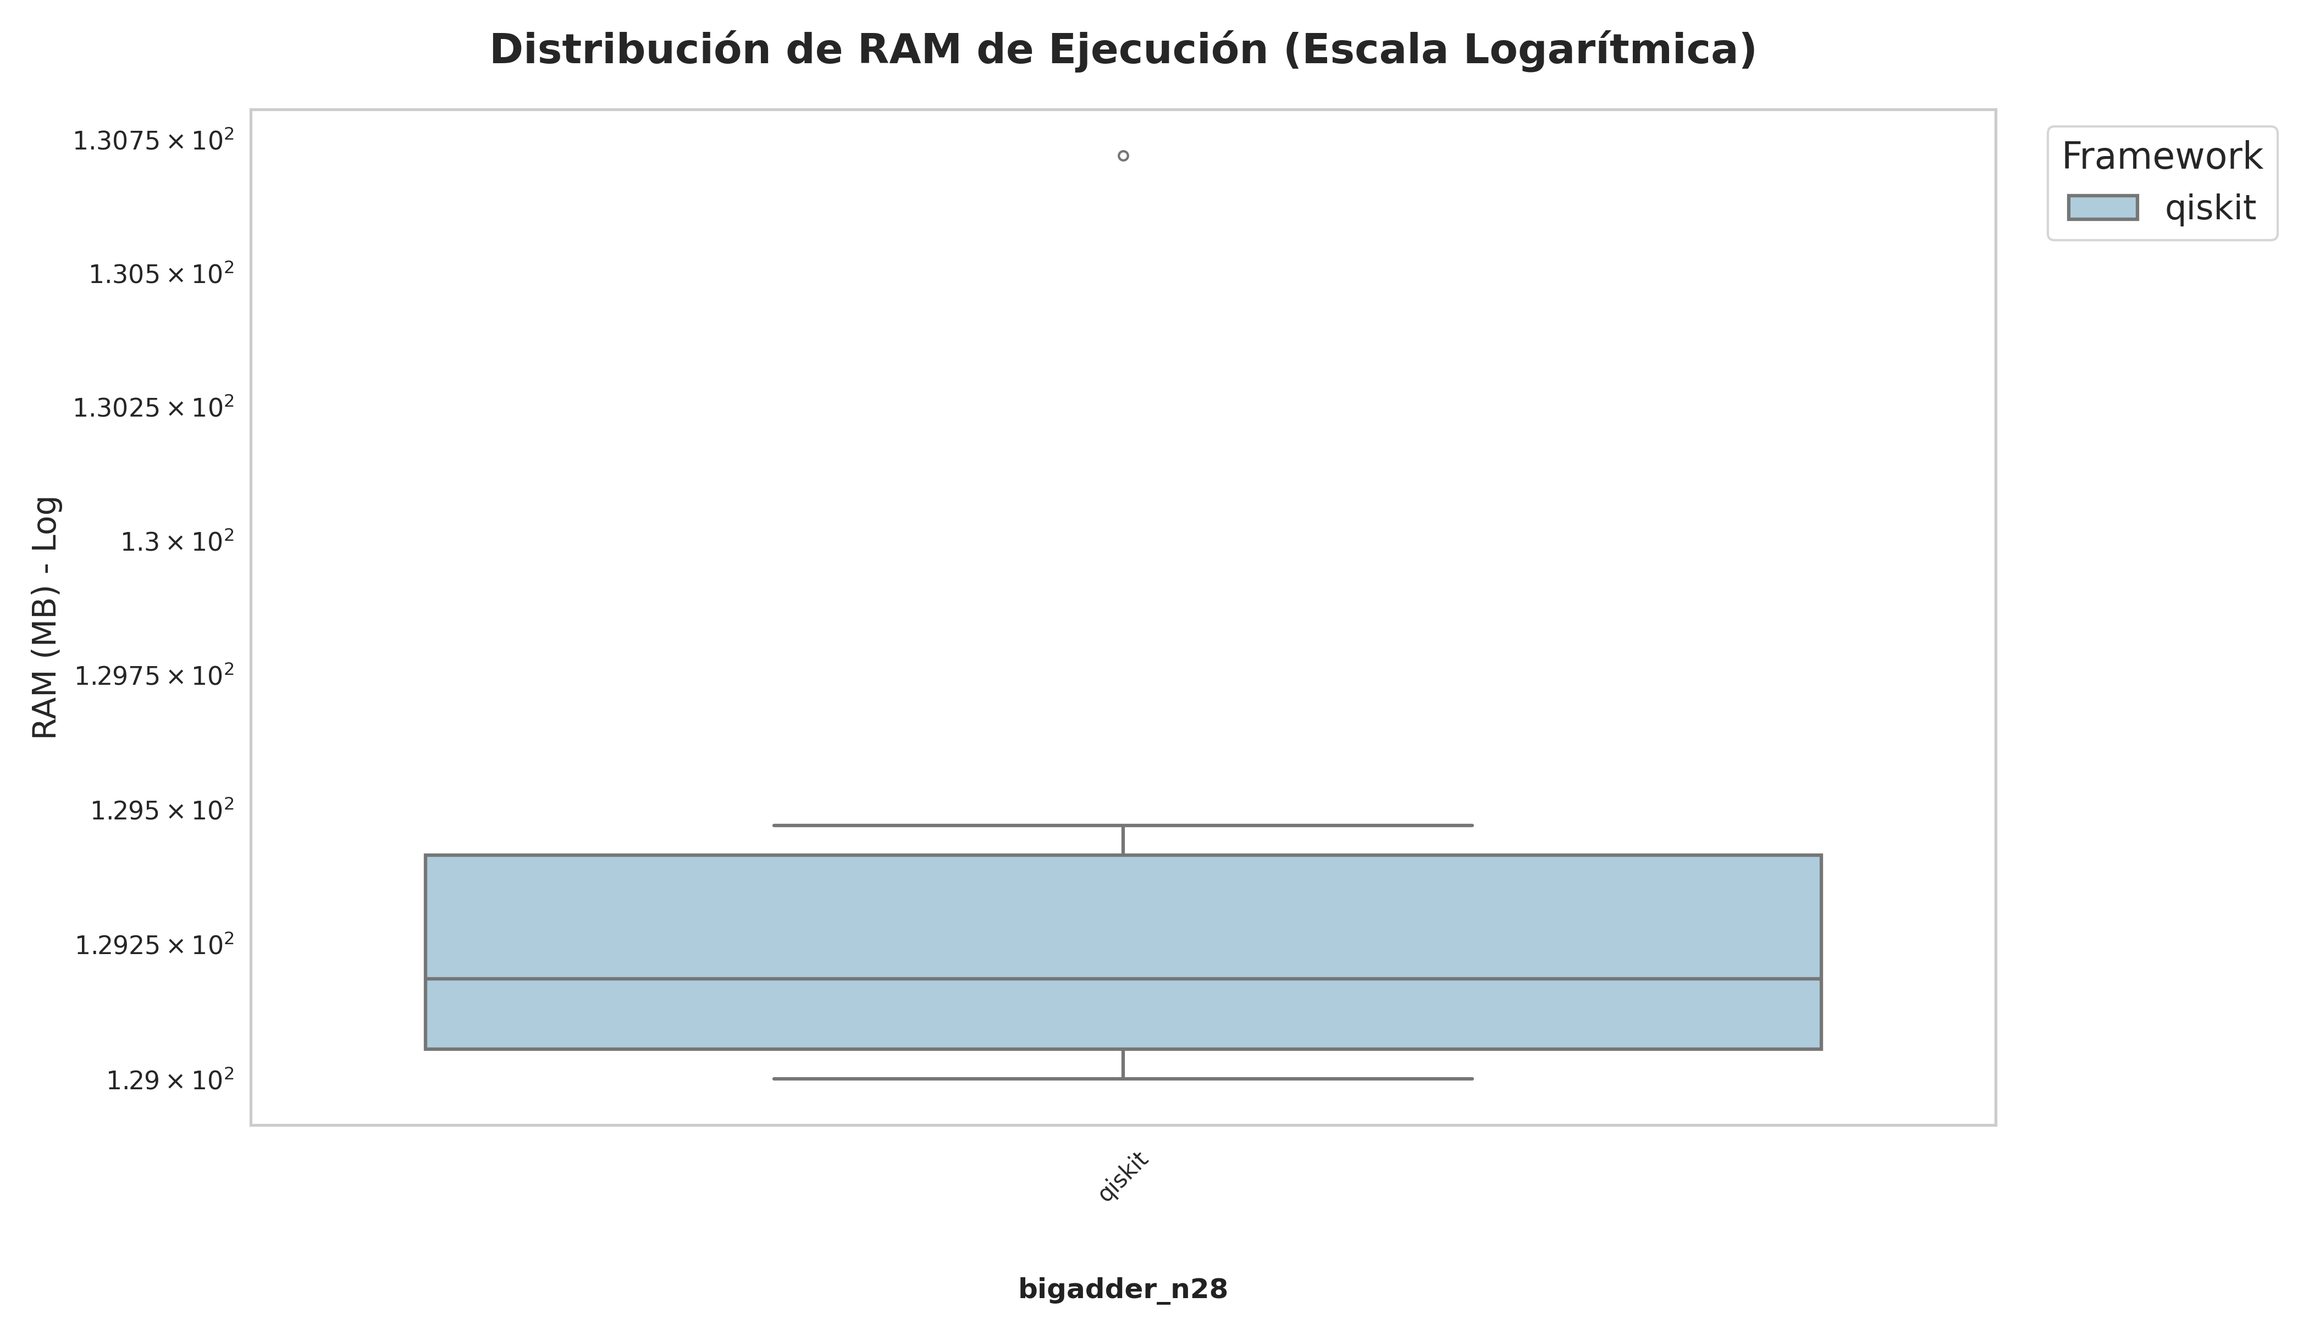
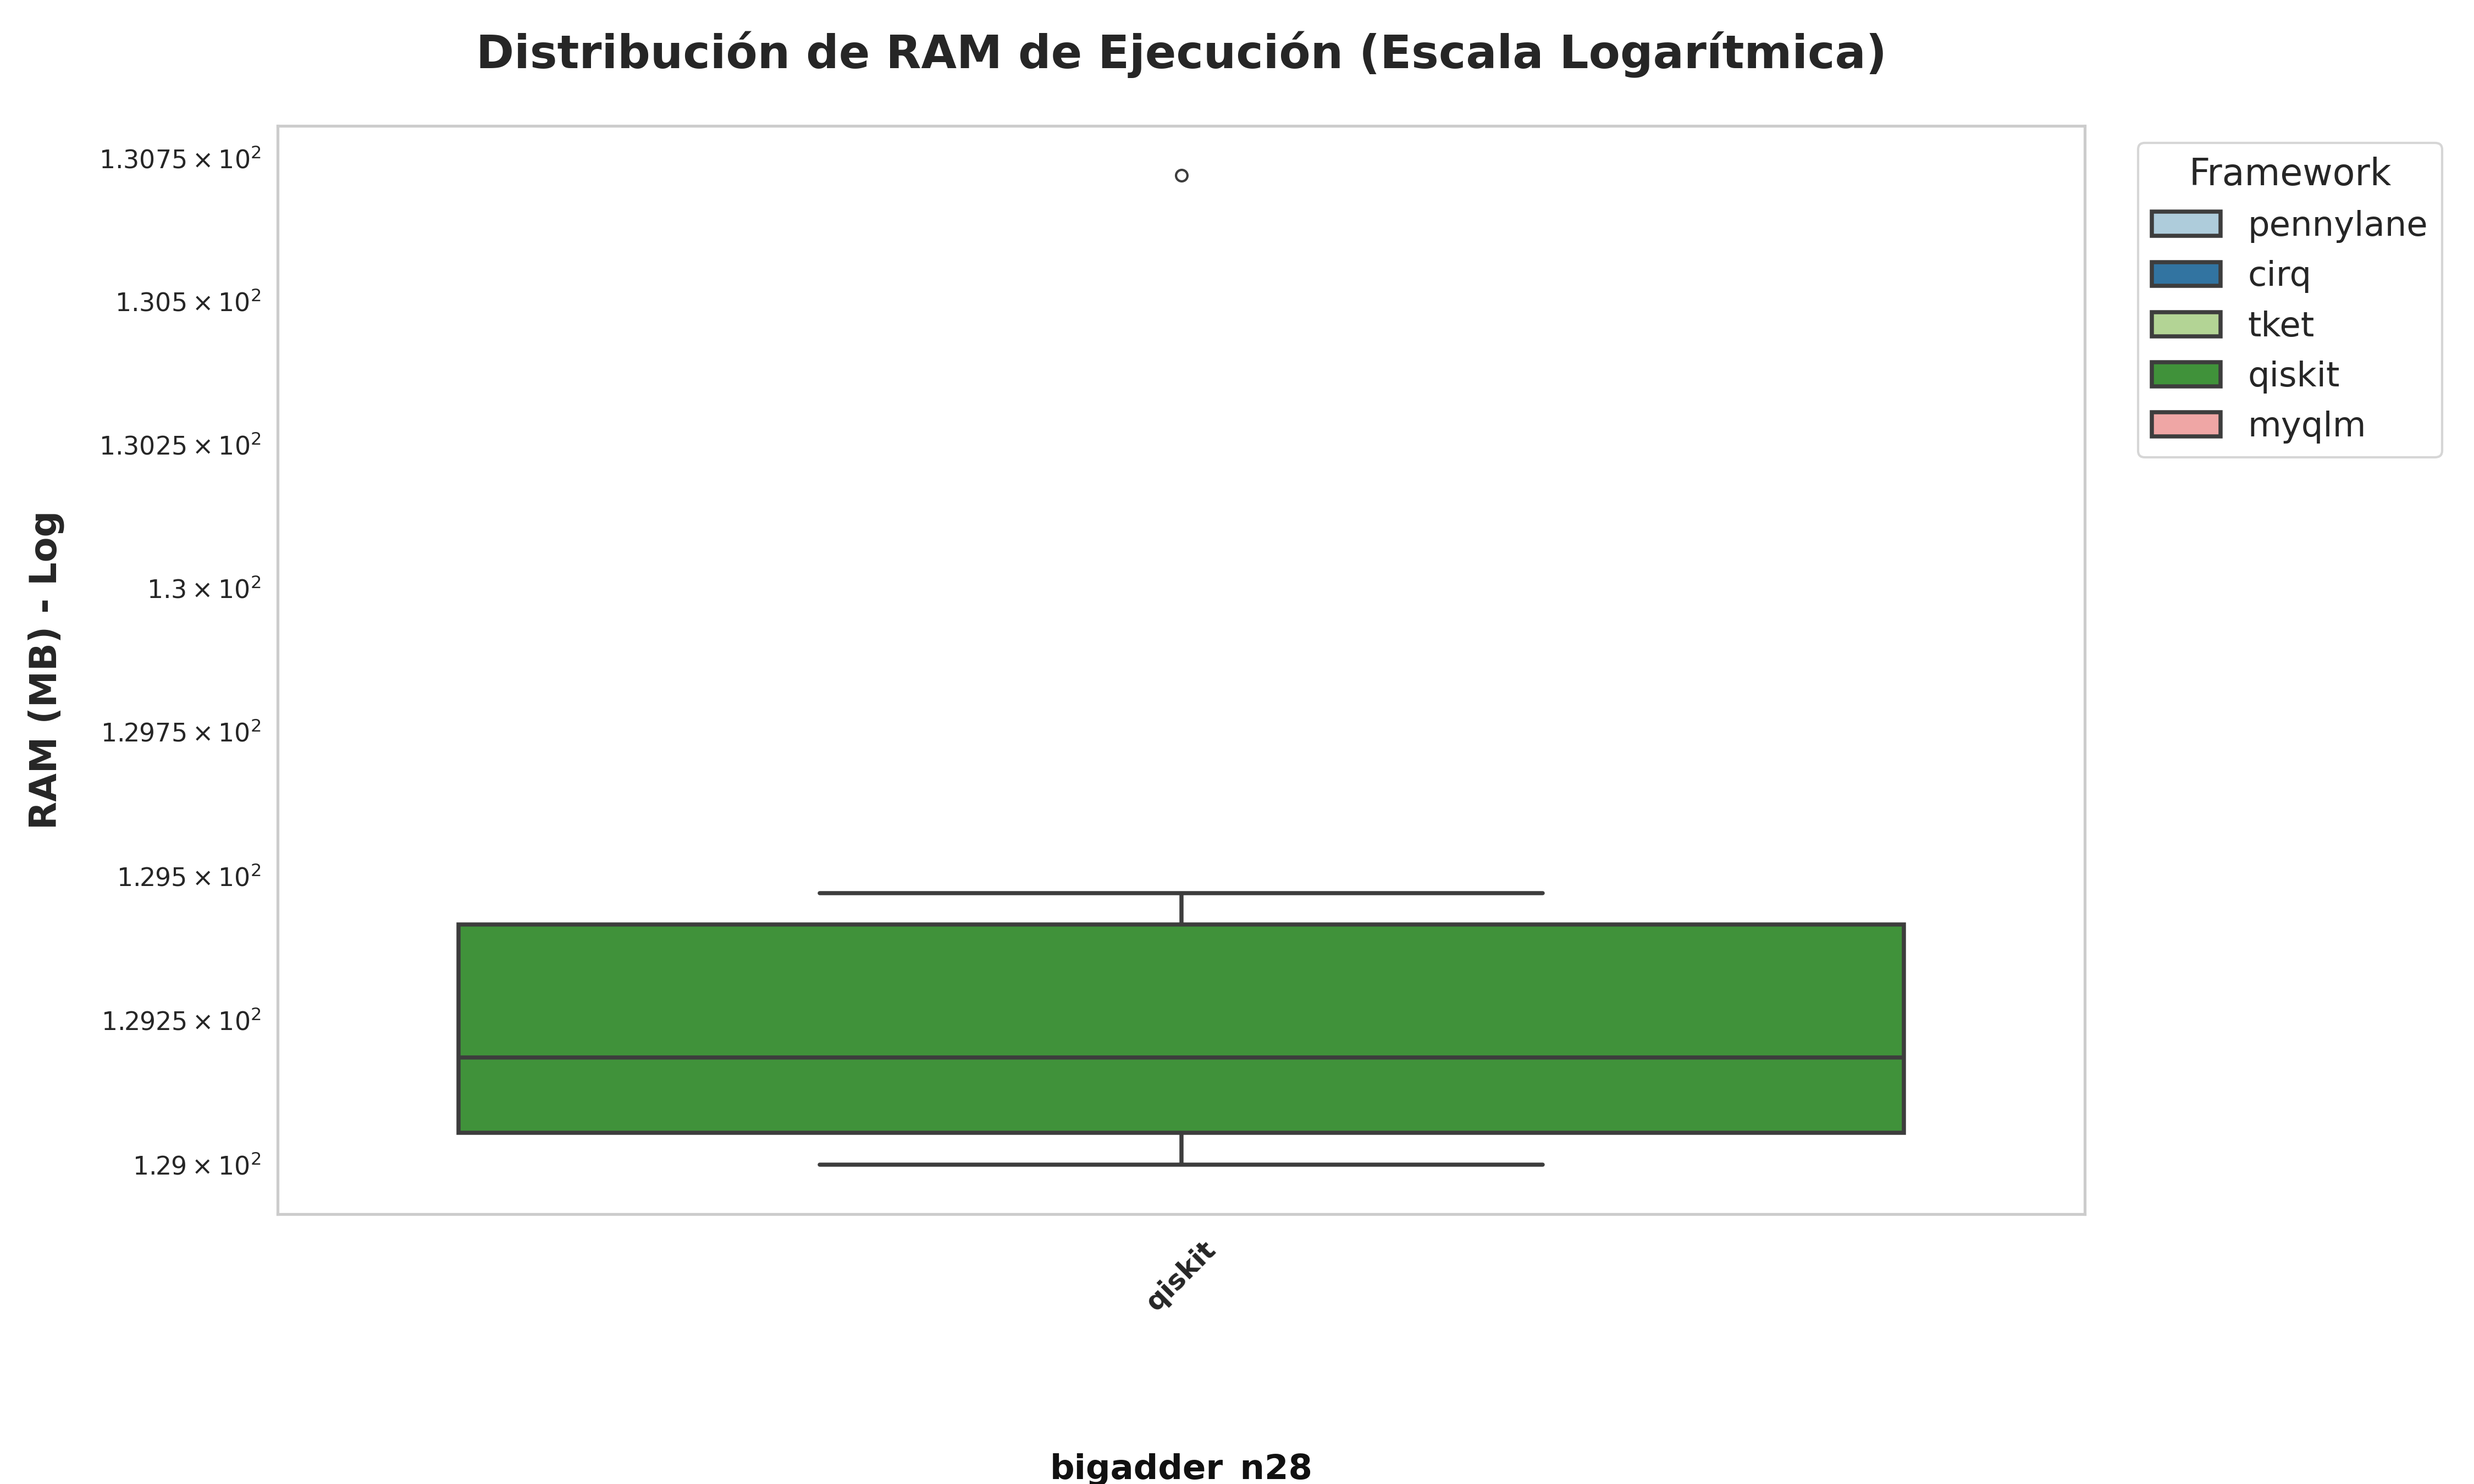
Ajuste en boxplot RAM

diff --git a/graficar_results.py b/graficar_results.py
@@ -301,70 +301,96 @@ def plot_boxplot_time(df):
 
 def plot_boxplot_RAM(df):
     """
-    Genera un diagrama de caja y bigotes para la distribución de RAM.
+    Genera un diagrama de caja y bigotes para la distribución de RAM garantizando
+    el orden idéntico de circuitos y frameworks respecto a las gráficas de barras.
     """
     if df.empty:
         print("No hay datos para graficar el boxplot de RAM.")
         return
 
     sns.set_theme(style="whitegrid")
-    fig, ax = plt.subplots(figsize=(14, 8))
+    fig, ax = plt.subplots(figsize=(15, 9)) # Aumentado ligeramente para fuentes grandes
 
-    # --- ORDENAR Y CREAR EJE X COMBINADO ---
-    df_sorted = df.sort_values(by=["CIRCUIT", "FRAMEWORK"])
+    # --- 1. DEFINIR ORDENAMIENTO CATEGÓRICO ESTRICTO ---
+    # Detectamos dinámicamente qué circuitos existen en el DataFrame para mantener su orden natural
+    all_circuits = list(df["CIRCUIT"].unique())
     
-    df_sorted["COMBINED"] = df_sorted["CIRCUIT"] + "|" + df_sorted["FRAMEWORK"]
+    # Mapeo del orden exacto que muestran tus gráficas de barras adjuntas
+    ordered_frameworks = ["pennylane", "cirq", "tket", "qiskit", "myqlm"]
+    
+    # Creamos una copia para no alterar el DataFrame original por referencia
+    df_sorted = df.copy()
+    
+    # Aseguramos homogeneidad de strings en minúsculas para los frameworks
+    df_sorted["FRAMEWORK"] = df_sorted["FRAMEWORK"].astype(str).str.lower()
+    
+    # Convertimos a tipo categórico ordenado
+    df_sorted["CIRCUIT"] = pd.Categorical(df_sorted["CIRCUIT"], categories=all_circuits, ordered=True)
+    df_sorted["FRAMEWORK"] = pd.Categorical(df_sorted["FRAMEWORK"], categories=ordered_frameworks, ordered=True)
+    
+    # Ordenamos el DataFrame usando los pesos de las categorías, NO el orden alfabético
+    df_sorted = df_sorted.sort_values(by=["CIRCUIT", "FRAMEWORK"])
+    
+    # Creamos el eje X combinado una vez que el DataFrame ya está perfectamente estructurado
+    df_sorted["COMBINED"] = df_sorted["CIRCUIT"].astype(str) + "|" + df_sorted["FRAMEWORK"].astype(str)
 
-    # --- CREAR DIAGRAMA DE CAJA Y BIGOTES ---
+    # --- 2. CREAR DIAGRAMA DE CAJA Y BIGOTES ---
     chart = sns.boxplot(
         data=df_sorted,
         x="COMBINED",
         y="RAM_MEAN",
         hue="FRAMEWORK",
+        hue_order=ordered_frameworks,
         palette="Paired",
         dodge=False,
-        linewidth=1.5,
-        fliersize=4,
+        linewidth=1.8,  # Líneas ligeramente más gruesas para impresión
+        fliersize=5,    # Outliers más visibles
         ax=ax
     )
 
     # --- ESCALA LOGARÍTMICA ---
     chart.set_yscale("log")
 
-    # --- ETIQUETAS DE FRAMEWORKS (Eje X) ---
+    # --- 3. ETIQUETAS DE FRAMEWORKS (Eje X) ---
     unique_combined = df_sorted["COMBINED"].unique()
-    # Separamos por el símbolo "|" y cogemos la parte derecha (el framework)
     labels = [val.split("|")[1] for val in unique_combined]
     ax.set_xticks(range(len(labels)))
-    ax.set_xticklabels(labels, rotation=45, ha='center', fontsize=10)
+    
+    # CAMBIO: Aumentado el tamaño de los nombres de los frameworks en el eje X
+    ax.set_xticklabels(labels, rotation=45, ha='center', fontsize=12, fontweight='semibold')
 
-    # --- ETIQUETAS DE CIRCUITOS Y LÍNEAS SEPARADORAS ---
-    unique_circuits = df_sorted["CIRCUIT"].unique()
+    # CAMBIO: Aumentado el tamaño de los números del eje Y
+    ax.tick_params(axis='y', which='major', labelsize=14)
+
+    # --- 4. ETIQUETAS DE CIRCUITOS Y LÍNEAS SEPARADORAS ---
+    # Extraemos los circuitos manteniendo el orden categórico
+    unique_circuits = [c for c in all_circuits if c in df_sorted["CIRCUIT"].values]
     start = 0
     for circuit in unique_circuits:
         count = len(df_sorted[df_sorted["CIRCUIT"] == circuit]["COMBINED"].unique())
         end = start + count
         center = (start + (end - 1)) / 2
         
-        ax.text(center, -0.15, circuit, ha='center', va='top', 
+        # CAMBIO: Nombre del circuito más grande (fontsize=15) y posicionado limpiamente abajo
+        ax.text(center, -0.22, circuit, ha='center', va='top', 
                 transform=ax.get_xaxis_transform(), 
-                fontsize=12, fontweight='bold', color='#222222')
+                fontsize=15, fontweight='bold', color='#111111')
         
         if end < len(unique_combined):
             ax.axvline(x=end - 0.5, color='gray', linestyle='--', alpha=0.5)
             
         start = end
 
-    # Títulos y Ejes
-    plt.title("Distribución de RAM de Ejecución (Escala Logarítmica)", fontsize=18, fontweight='bold', pad=20)
+    # Títulos y Ejes con fuentes aumentadas
+    plt.title("Distribución de RAM de Ejecución (Escala Logarítmica)", fontsize=20, fontweight='bold', pad=25)
     plt.xlabel("")
-    plt.ylabel("RAM (MB) - Log", fontsize=14)
+    plt.ylabel("RAM (MB) - Log", fontsize=16, fontweight='bold', labelpad=15)
     
-    # Leyenda
+    # CAMBIO: Leyenda más grande y desplazada a la derecha para evitar colisiones
     plt.legend(title="Framework", title_fontsize='16', fontsize='15', loc='upper left', bbox_to_anchor=(1.02, 1))
 
-    # Ajuste de márgenes
-    plt.subplots_adjust(bottom=0.20)
+    # Aumentado el margen inferior para que las etiquetas de los circuitos no sufran recortes
+    plt.subplots_adjust(bottom=0.25)
     
     plt.tight_layout()
     plt.savefig(OUTPUT_IMAGE_BOXPLOT_RAM, dpi=300)
